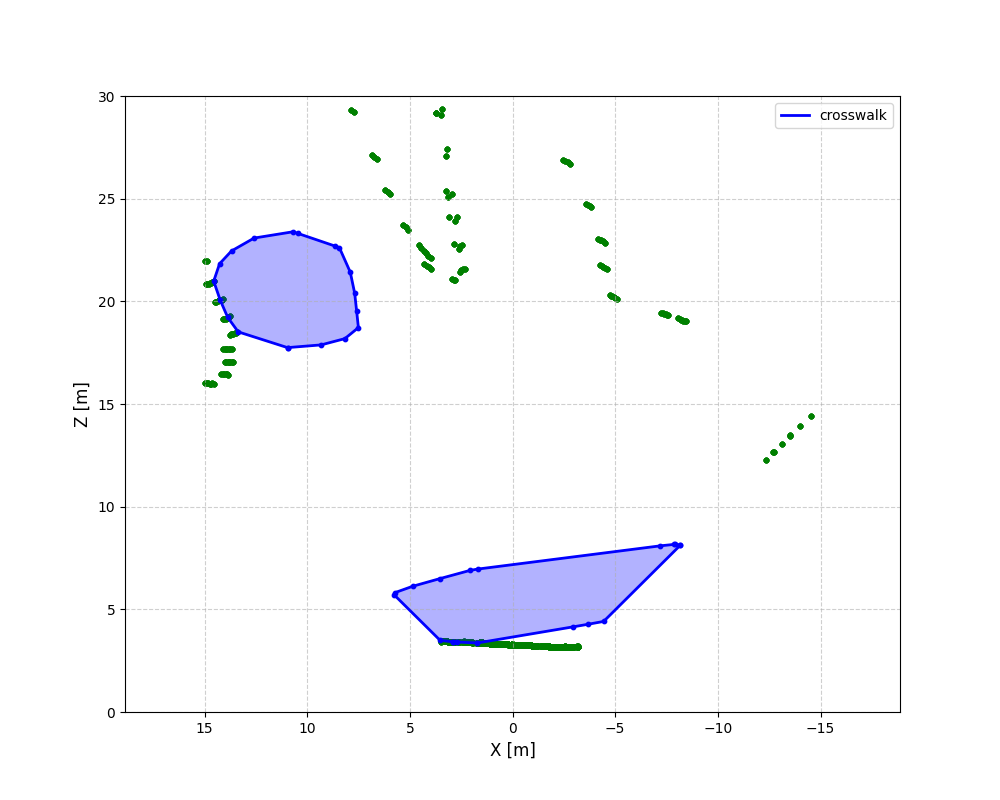
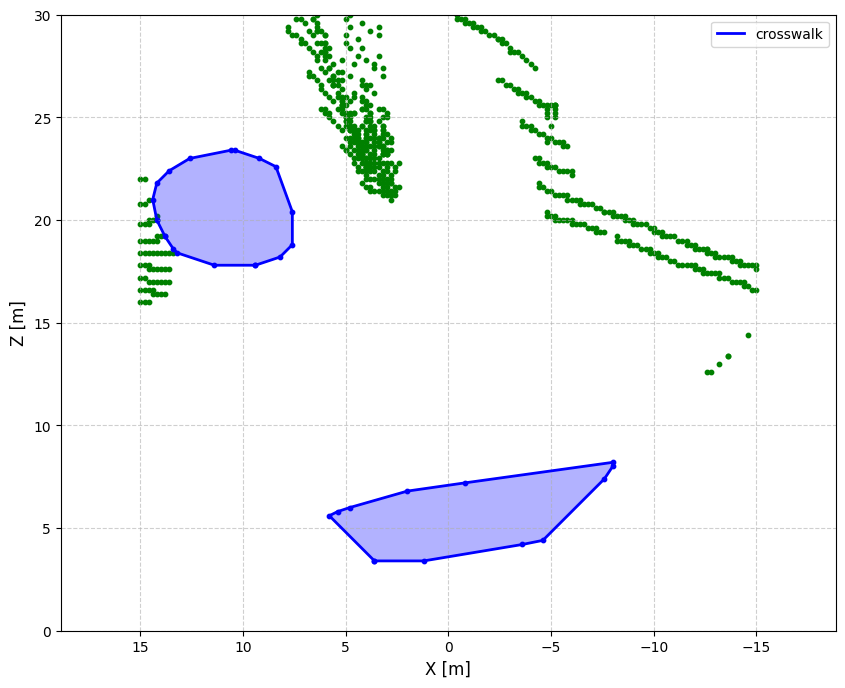
Add point density transformation: efficient processing

diff --git a/src/processors/vectorize.py b/src/processors/vectorize.py
@@ -18,7 +18,7 @@ import matplotlib.pyplot as plt
 
 from sklearn.cluster import DBSCAN
 from sklearn.neighbors import NearestNeighbors
-from scipy.spatial import ConvexHull, Delaunay, cKDTree
+from scipy.spatial import ConvexHull, Delaunay, KDTree, cKDTree
 import alphashape
 from shapely.geometry import MultiPoint
 
@@ -72,6 +72,74 @@ crosswalk_class_idx = cfg_bev.crosswalk_class_idx
 #     return polylines_dict
 
 
+# def sparsify_points(points, grid_size):
+#     """
+#     Downsample points by keeping one point per grid cell.
+    
+#     Args:
+#         points: (N, 2) or (N, 3) array of coordinates
+#         grid_size: float, the size of each grid cell (e.g., 0.1 for 10cm)
+#     Outputs:
+#         downsampled_points: (M, D) array where M <= N
+#     """
+#     # 1. Quantize the coordinates by dividing by grid_size and flooring
+#     grid_indices = np.floor(points / grid_size).astype(int)
+#     # 2. Find unique grid cells. return_index=True gives the first point in each cell.
+#     _, unique_indices = np.unique(grid_indices, axis=0, return_index=True)
+#     return points[unique_indices]
+
+# def densify_points(points, semantics, grid_size):
+#     """ 
+#     Semantic-grounded poins upsampling using nearest neighbor (KD-Tree)
+
+#     Args: 
+#         points: (N, 2) or (N, 3) array of coordinates
+#         semantics: (N, 1) array of semantic index
+#         grid_size: float, the size of each grid cell (e.g., 0.1 for 10cm)
+#     Outputs:
+#         upsample_points: (M, D) array where M >= N
+#     """
+#     # 1. Define the bounding box of the points
+#     min_bound = np.min(points, axis=0)
+#     max_bound = np.max(points, axis=0)
+#     # 2. Create a dense grid of coordinates within that box
+#     axes = [np.arange(min_b, max_b + grid_size, grid_size) 
+#             for min_b, max_b in zip(min_bound, max_bound)]
+#     grid_coords = np.array(np.meshgrid(*axes)).T.reshape(-1, points.shape[1])
+#     # 3. Use a KDTree to find the nearest original point for each grid coordinate
+#     tree = KDTree(points)
+#     _, nearest_idx = tree.query(grid_coords)
+#     upsampled_points = grid_coords
+#     # 4. Map the semantics of the nearest original points to the new grid
+#     upsampled_semantics = semantics[nearest_idx]
+#     # Return the new dense coordinates (and optionally their labels)
+#     return upsampled_points, upsampled_semantics
+
+
+def transform_point_density(points, semantics, grid_size):
+    """ 
+    Semantic-grounded point density transformation using nearest neighbor
+
+    Args: 
+        points: (N, 2) or (N, 3) array of coordinates
+        semantics: (N, 1) array of semantic index
+        grid_size: float, the size of each grid cell (e.g., 0.1 for 10cm)
+    Outputs:
+        upsample_points: (M, D) array where M >= N
+    """
+    # 1. Snap points to the nearest grid center
+    # Adding 0.5 ensures we snap to the middle of the cell, not the corner
+    grid_indices = np.round(points / grid_size)
+    grid_centers = grid_indices * grid_size
+    # 2. Find unique grid centers to ensure uniform density (one point per cell)
+    # return_index=True picks the nearest original semantic label for that cell
+    _, unique_indices = np.unique(grid_indices, axis=0, return_index=True)
+    upsampled_points = grid_centers[unique_indices]
+    upsampled_semantics = semantics[unique_indices]
+
+    return upsampled_points, upsampled_semantics
+
+
 def vectorize_convex_crosswalk(points, semantics):
     """ Vectorize crosswalk areas from the point cloud
         Geometry: DBSCAN + Chan's Convex Hull Algorithm
@@ -86,6 +154,12 @@ def vectorize_convex_crosswalk(points, semantics):
         Outputs:
             polylines: polyline of crosswalk areas
     """
+    # ===============================================
+    # (0) Transform point density for 
+    #   proper nearest-neighbor-based boundary matching
+    # ===============================================
+    points, semantics = transform_point_density(points, semantics, grid_size=cfg_bev.grid_size)
+
     polylines = []
     # 3D points of crosswalk areas
     valid_indexes = semantics[:,0] == crosswalk_class_idx
@@ -96,10 +170,12 @@ def vectorize_convex_crosswalk(points, semantics):
     points_crosswalk = points[valid_indexes]
     # Ignore height dimension
     points_crosswalk = points_crosswalk[:,[0,2]]
+    # # Point sparsification for speed up
+    # points_crosswalk = sparsify_points(points_crosswalk, grid_size=cfg_bev.grid_size)
 
     # Produce convex hull
     clustering = DBSCAN(
-        eps=cfg_bev.eps_cluster, min_samples=cfg_bev.min_points_crosswalk
+        eps=cfg_bev.eps_cluster, min_samples=cfg_bev.min_points_crosswalk, n_jobs=-1
     ).fit(points_crosswalk)
     labels = clustering.labels_
     # Compute convex hull for each cluster (ignoring noise label -1)
@@ -173,6 +249,13 @@ def vectorize_drivable_boundaries(points, semantics):
             polylines: polyline of drivable boundaries
     """
     polylines = []
+    # ===============================================
+    # (0) Transform point density for 
+    #   proper nearest-neighbor-based boundary matching
+    # ===============================================
+    points, semantics = transform_point_density(points, semantics, grid_size=cfg_bev.grid_size)
+
+    # ===========================
     # 3D points of drivable areas (road + lane marking + crosswalk)
     indexes_drivable = semantics[:,0] == road_class_idx
     indexes_nondrivable = ~indexes_drivable
@@ -181,27 +264,50 @@ def vectorize_drivable_boundaries(points, semantics):
 
     # Project to a single height plane (Y-axis)
     points[:,1] = 0. # any constant => only care about X and Z
-    # Extract drivable and nondrivable points
+    # ===============================================
+    # (1) Extract drivable and nondrivable points
+    # ===============================================
     pts_drivable, pts_nondrivable = points[indexes_drivable], points[indexes_nondrivable]
     pts_drivable = pts_drivable[:,[0,2]] # X-axis and Z-axis
     pts_nondrivable = pts_nondrivable[:,[0,2]] # X-axis and Z-axis
+    # # ===============================================
+    # # (2) Point Sparsification for speed up
+    # # ===============================================
+    # pts_drivable = sparsify_points(pts_drivable, grid_size=cfg_bev.grid_size)
+    # pts_nondrivable = sparsify_points(pts_nondrivable, grid_size=cfg_bev.grid_size)
 
-    # Search nondrivable points boundary to drivable points
+    # ===============================================
+    # (3) Search nondrivable points boundary to drivable points
+    # ===============================================
     nn = NearestNeighbors(n_neighbors=1).fit(pts_drivable)
     dist, _ = nn.kneighbors(pts_nondrivable)
-    pts_boundary = pts_nondrivable[dist.flatten() <= cfg_bev.max_dist_nn]
+    pts_boundary = pts_nondrivable[dist.flatten() <= cfg_bev.max_dist_nn_phase1]
     
-    # Cluster points boundary points to set of polylines
+    # ===============================================
+    # (4) Cluster points boundary points into polylines
+    # ===============================================
     clustering = DBSCAN(
         eps=cfg_bev.eps_cluster, min_samples=cfg_bev.min_points_poly_boundary
     ).fit(pts_boundary)
-    labels = clustering.labels_
+    poly_groups = clustering.labels_
+    print('Total Polylines:', len(set(poly_groups)))
     # Group boundary points into set of polylines (ignoring noise label -1)
-    for label in set(labels):
+    for label in set(poly_groups):
         if label == -1: continue
-        cluster_points = pts_boundary[labels == label]
-        polylines.append(pts_boundary)
-    
+        cluster_points = pts_boundary[poly_groups == label]
+        # print(cluster_points.shape)
+        # ===============================================
+        # (5) Filter noisy/false positive boundary points
+        #   => area of non-drivable lane >= min_area
+        # ===============================================
+        try: # valid convex points
+            convex_hull = ConvexHull(cluster_points)
+            convex_area = convex_hull.volume
+            if convex_area < cfg_bev.min_area_boundary:
+                continue
+            polylines.append(cluster_points)
+        except: # coplanar points => invalid set, ignore
+            continue
 
     return polylines
 
@@ -225,16 +331,20 @@ def visualize_map(polylines_dict, output_path):
         color = colors.get(label, 'black')
         
         for i, poly in enumerate(polylines):
-            # Ensure the polyline is closed for visualization (last point -> first point)
-            closed_poly = np.vstack([poly, poly[0]])
-            # Plot the outline
-            if label != 'boundary': # temporary debug
-                plt.plot(closed_poly[:, 0], closed_poly[:, 1], color=color, 
-                        linewidth=2, label=label if i == 0 else "")
-            plt.scatter(closed_poly[:, 0], closed_poly[:, 1], color=color, s=10)
-            # Fill crosswalks to make them look like real road markings
+            # Plot polylines
             if label == 'crosswalk':
+                # Plot crosswalk as closed polyline
+                # Ensure the polyline is closed for visualization (last point -> first point)
+                closed_poly = np.vstack([poly, poly[0]])
+                plt.plot(closed_poly[:, 0], closed_poly[:, 1], color=color, 
+                    linewidth=2, label=label if i == 0 else "")
+                plt.scatter(closed_poly[:, 0], closed_poly[:, 1], color=color, s=10)
                 plt.fill(closed_poly[:, 0], closed_poly[:, 1], color=color, alpha=0.3)
+            else:
+                # # plot other points as sequence of points
+                # plt.plot(poly[:, 0], poly[:, 1], color=color, 
+                #     linewidth=2, label=label if i == 0 else "")
+                plt.scatter(poly[:, 0], poly[:, 1], color=color, s=10)
 
     plt.axis('equal') # Maintain real-world proportions
     plt.xlim(cfg_bev.xlim) # lateral
@@ -246,4 +356,4 @@ def visualize_map(polylines_dict, output_path):
     plt.legend()
     plt.grid(True, linestyle='--', alpha=0.6)
     # plt.show()
-    plt.savefig(os.path.join(output_path, 'map_polylines.png'))
+    plt.savefig(os.path.join(output_path, 'map_polylines.png'), bbox_inches='tight')

diff --git a/src/configs/cfg_bev.py b/src/configs/cfg_bev.py
@@ -19,18 +19,30 @@ lane_marking_class_idx = SEMANTIC_CLASSES.index('lane marking')+1
 crosswalk_class_idx = SEMANTIC_CLASSES.index('crosswalk area')+1
 
 ###################################
-# map BEV voxels
+# map BEV voxels [play with this]
 ###################################
-BEV_HEIGHT = 2 # height of interest above the ground level, in meters
+BEV_HEIGHT = 1.5 # height of interest above the ground level, in meters
 voxel_size = 0.3 # voxel size, in meter
 xlim = (-15,15) # lateral
 ylim = None # dynamically adjusted based on avg ground level / cam height
 zlim = (0,30)  # depth
 
-# for vectorization
-eps_cluster = 2.5 # [meters] maximum distance to grouped in the same set of polyline
-min_points_crosswalk = 50 # total points to be considered a valid set of polyline
-alpha = 1.0 # alpha concave hull
-max_dist_nn = 0.5 # [meters] maximum distance to the nearest neighbor non-drivable to be considered boundary
-min_points_poly_boundary = 3 # total points in valid boundary polylines
+# vectorization
+# [meters] 1 point per grid size: point sparsification for speed up
+grid_size = 0.2
+# [meters] maximum distance to grouped in the same polyline
+eps_cluster = 2.5 
+# total points to be considered a valid set of polyline
+min_points_crosswalk = 50 
+
+# vectorization: drivable
+# alpha concave hull
+alpha = 1.0 
+# [meters] maximum distance to the nearest neighboring drivable point to be considered boundary
+max_dist_nn_phase1 = 2.0
+max_dist_nn_phase2 = 0.5
+# total points in valid boundary polylines
+min_points_poly_boundary = 3 
+# [meter^2] minimum area of nondrivable boundary to consider a valid boundary => ignore false positive areas
+min_area_boundary = 1
 

diff --git a/src/processors/generate_bev_grid.py b/src/processors/generate_bev_grid.py
@@ -37,6 +37,7 @@ import copy
 sys.path.append(f"{pwd}/../configs")
 import cfg_bev
 
+from vectorize import transform_point_density
 from vectorize import vectorize_convex_crosswalk, vectorize_drivable_boundaries, visualize_map
 
 
@@ -531,10 +532,19 @@ if __name__ == '__main__': # for demo purposes
         'boundary': None,
         'crosswalk': None,
     }
+    
+    start = time.time()
     polylines_dict['crosswalk'] = vectorize_convex_crosswalk(points, semantics)
+    end = time.time()
+    print(colored(f'Crosswalk vectorization: {round(end-start,3)} s.', 'green'))
+    
+    start = time.time()
     polylines_dict['boundary'] = vectorize_drivable_boundaries(
         points_roadCentric, semantics_roadCentric
     )
+    end = time.time()
+    print(colored(f'Drivable vectorization: {round(end-start,3)} s.', 'green'))
+
     visualize_map(polylines_dict, output_path)
 
 # ###############################################
